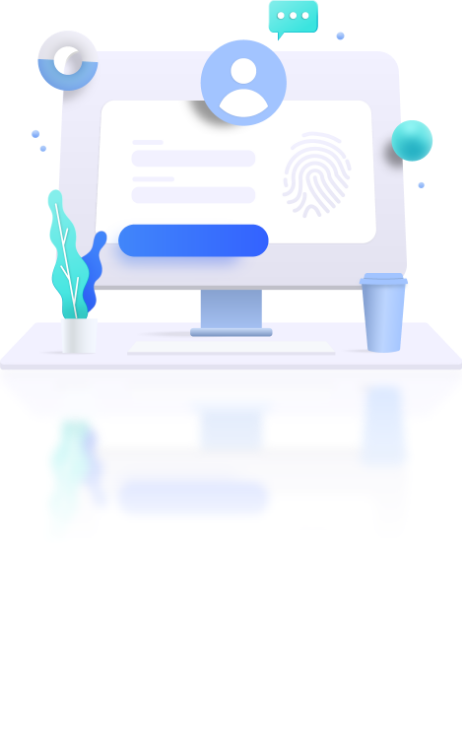
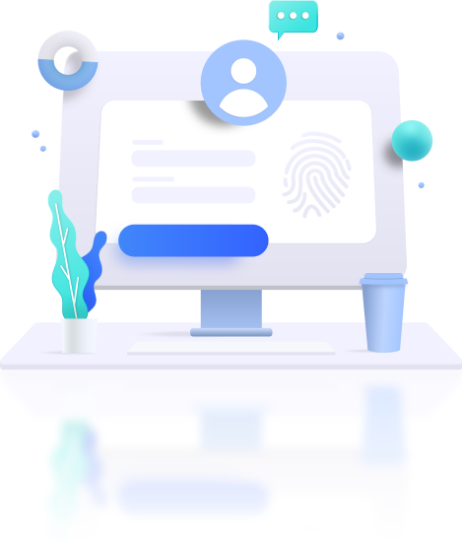
Responsive Bug Fix
card Height fix
Darkmode Button dix
Swipper auttoheight fix
container-download wrap fix
container-download img fix
container-download ul fix
container-end max-content fix
footer padding & height fix

diff --git a/css/main.css b/css/main.css
@@ -3,13 +3,15 @@
     padding: 3vh 3vw;
   }
   .logo-container img {
-    width: 35vw;
-    height: 4vh;
+    width: 100%;
   }
 
   /* INTRO SECTION START */
   .container-intro {
     flex-direction: column;
+  }
+  .container-intro img {
+    width: 100%;
   }
   .intro p {
     text-align: center;
@@ -80,9 +82,7 @@
     justify-content: center;
   }
   .container-download img {
-    width: 88vw;
-    height: 66vh;
-    border-radius: 20px;
+    width: 100%;
   }
   .download-section p h1 {
     padding-right: 10vw;
@@ -104,8 +104,7 @@
   }
   .container-end img {
     padding-top: 6vh;
-    width: 88vw;
-    height: 58vh;
+    width: 100%;
   }
   .end-section {
     flex-basis: 100%;
@@ -147,13 +146,12 @@
   /* FOOTER SECTION END */
 }
 
-@media all and (max-width: 768px) and (min-width: 377px) {
+@media all and (max-width: 768px) and (min-width: 376px) {
   header {
     padding: 3vh 3vw;
   }
   .logo-container img {
-    width: 22vw;
-    height: 5vh;
+    width: 50%;
   }
 
   /* INTRO SECTION START */
@@ -161,8 +159,7 @@
     flex-direction: row;
   }
   .container-intro img {
-    height: 37vh;
-    width: 45vw;
+    width: 50%;
   }
   .intro p {
     width: 80%;
@@ -233,14 +230,13 @@
     flex-direction: row;
     justify-content: center;
     align-items: flex-start;
+    flex-wrap: nowrap;
   }
   .BtnPrimary-download {
     width: 65%;
   }
   .container-download img {
-    width: 50vw;
-    height: 80vh;
-    border-radius: 20px;
+    width: 30%;
   }
   /* DOWNLOAD APPLICATION SECTION END */
 
@@ -252,12 +248,10 @@
     align-items: flex-start;
   }
   .container-end img {
-    width: 40vw;
-    height: 75vh;
+    width: 50%;
   }
   .container-end h1 {
     font-size: 30px;
-    width: max-content;
   }
   .end-section {
     flex-basis: 50%;
@@ -277,7 +271,7 @@
   }
   .container-footer {
     flex-direction: row-reverse;
-    padding: 30px 100px;
+    padding: 3vh 10vw;
     text-align: right;
     height: max-content;
   }
@@ -296,16 +290,14 @@
     padding: 3vh 13vw;
   }
   .logo-container img {
-    width: 9vw;
-    height: 4vh;
+    width: 30%;
   }
   /* INTRO SECTION START */
   .container-intro {
     flex-direction: row;
   }
   .container-intro img {
-    height: 58vh;
-    width: 36vw;
+    width: 40%;
   }
   .intro p {
     width: 50%;
@@ -372,12 +364,13 @@
     flex-direction: row;
     justify-content: center;
     align-items: flex-start;
+    flex-wrap: nowrap;
   }
   .BtnPrimary-download {
     width: 33%;
   }
   .container-download img {
-    border-radius: 20px;
+    width: 30%;
   }
   /* DOWNLOAD APPLICATION SECTION END */
 
@@ -391,6 +384,9 @@
   .container-end p {
     align-self: center;
   }
+  .container-end img {
+    width: 30%;
+  }
   .end-section {
     flex-basis: 50%;
     display: flex;
@@ -403,9 +399,8 @@
   /* FOOTER SECTION START */
   .container-footer {
     flex-direction: row-reverse;
-    padding: 30px 100px;
+    padding: 3vh 10vw;
     text-align: right;
-    height: max-content;
   }
   .container-end button {
     align-self: center;
@@ -433,7 +428,7 @@ header {
   display: flex;
   flex-direction: row;
   justify-content: space-between;
-  flex-wrap: wrap;
+  flex-wrap: nowrap;
 }
 .BtnPrimary {
   padding: 5px 20px;
@@ -450,6 +445,26 @@ header {
   text-align: center;
   color: white;
   cursor: pointer;
+  transition: all 0.2s ease-out;
+}
+.BtnPrimary-darkmode {
+  border-radius: 19px;
+  background-color: #4186fa;
+  border-color: transparent;
+  font-size: 10px;
+  font-weight: 500;
+  font-stretch: normal;
+  font-style: normal;
+  line-height: 1.5;
+  letter-spacing: normal;
+  text-align: center;
+  color: white;
+  cursor: pointer;
+  transition: all 0.2s ease-out;
+}
+.BtnPrimary-darkmode:hover {
+  background-color: black;
+  color: wheat;
 }
 .BtnPrimary:hover,
 .BtnPrimary-download:hover {
@@ -470,6 +485,7 @@ header {
   text-align: center;
   color: #4186fa;
   cursor: pointer;
+  transition: all 0.2s ease-out;
 }
 .BtnSecondary:hover {
   background-color: #1c5cc9;
@@ -477,6 +493,12 @@ header {
 }
 .logo-container {
   cursor: pointer;
+  align-self: center;
+}
+.button-container {
+  display: flex;
+  flex-direction: row;
+  flex-wrap: nowrap;
 }
 
 /* INTRO SECTION START */
@@ -501,6 +523,7 @@ header {
 }
 .intro h1 {
   align-self: center;
+  text-align: center;
 }
 .intro button {
   align-self: center;
@@ -546,7 +569,7 @@ header {
   display: flex;
   flex-direction: column;
   width: 32vw;
-  height: 36vh;
+  height: max-content;
   padding: 2vh 1vw;
   transition: box-shadow 0.2s ease-out;
   border-radius: 20px;
@@ -567,6 +590,7 @@ header {
   border-radius: 149px;
   padding: 2vh 5vw;
 }
+
 .swiper-slide {
   display: flex;
 }
@@ -622,9 +646,14 @@ header {
   align-items: flex-end;
   text-align: right;
 }
+.container-download img {
+  border-radius: 20px;
+}
 .container-download ul {
-  list-style: none;
-  width: max-content;
+  list-style-position: inside;
+  text-align: right;
+  direction: rtl;
+  padding-right: 0px;
 }
 .container-download li:first-child {
   font-weight: bold;
@@ -657,6 +686,9 @@ header {
 /* REGISTER END SECTION START */
 .container-end {
   display: flex;
+}
+.container-end img {
+  border-radius: 20px;
 }
 .container-end a {
   text-decoration: none;
@@ -694,10 +726,6 @@ footer {
   display: flex;
   flex-direction: column;
   flex-grow: 1;
-}
-.column:last-child {
-  flex-grow: 1;
-  justify-self: center;
 }
 .footer-logo {
   width: 155px;

diff --git a/index.html b/index.html
@@ -11,18 +11,22 @@
     <link rel="stylesheet" href="https://unpkg.com/swiper/swiper-bundle.min.css" />
 </head>
 <body>
+    <div>
+        <button class="BtnPrimary-darkmode" onclick="darkMode()">دارک مود</button>
+    </div>
     <header>
+
         <div class="logo-container">
             <picture>
-                <source media="(max-width:375px)" srcset="img/Logos/Logo-6200.png">
-                <source media="(max-width:768px)" srcset="img/Logos/Logo-6200@2x.png">
+                <source media="(max-width:376px)" srcset="img/Logos/Logo-6200.png">
+                <source media="(max-width: 768px) and (min-width: 377px)" srcset="img/Logos/Logo-6200@2x.png">
                 <img src="img/Logos/Logo-6200@3x.png" alt="Logo">
             </picture>
+
         </div>
         <div class="button-container">
             <button class="BtnSecondary">ورود</button>
             <button class="BtnPrimary">ثبت نام</button>
-            <button class="BtnPrimary" onclick="darkMode()">دارک مود</button>
         </div>
     </header>
 
@@ -210,10 +214,10 @@
                 <button class="BtnPrimary-download">دانلود کنید</button><br>
                 <ul>
                     <li>آخرین تغییرات</li><br>
-                    <li>بهبود عملکرد و سرعت اپلیکیشن &nbsp; &nbsp;-</li>
-                    <li>رفع اشکال ایجاد گروه &nbsp; &nbsp;-</li>
-                    <li>امکانات جدید پروفایلهای عمومی و گروهها &nbsp; &nbsp;-</li>
-                    <li>تغییرات جدید رابط کاربری &nbsp; &nbsp;-</li>
+                    <li>بهبود عملکرد و سرعت اپلیکیشن &nbsp; &nbsp;</li>
+                    <li>رفع اشکال ایجاد گروه &nbsp; &nbsp;</li>
+                    <li>امکانات جدید پروفایلهای عمومی و گروهها &nbsp; &nbsp;</li>
+                    <li>تغییرات جدید رابط کاربری &nbsp; &nbsp;</li>
                 </ul>
             </div>
         </section>

diff --git a/js/main.js b/js/main.js
@@ -1,4 +1,5 @@
 const swiper = new Swiper('.swiper-container', {
+    autoHeight: true,
     direction: 'horizontal',
     loop: true,
     pagination: {
@@ -29,13 +30,14 @@ const swiper = new Swiper('.swiper-container', {
         }
     } else {
         var content = document.getElementById("footer-list");
-        content.style.maxHeight = content.scrollHeight + "px";
+        var scHeight = content.scrollHeight + 100;
+        content.style.maxHeight = scHeight + "px";
         var content2 = document.getElementById("footer-list2");
-        content2.style.maxHeight = content.scrollHeight + "px";
+        content2.style.maxHeight = scHeight + "px";
         var content3 = document.getElementById("footer-list3");
-        content3.style.maxHeight = content.scrollHeight + "px";
+        content3.style.maxHeight = scHeight + "px";
         var content4 = document.getElementById("footer-list4");
-        content4.style.maxHeight = content.scrollHeight + "px";
+        content4.style.maxHeight = scHeight + "px";
     }
 
 function darkMode() {
